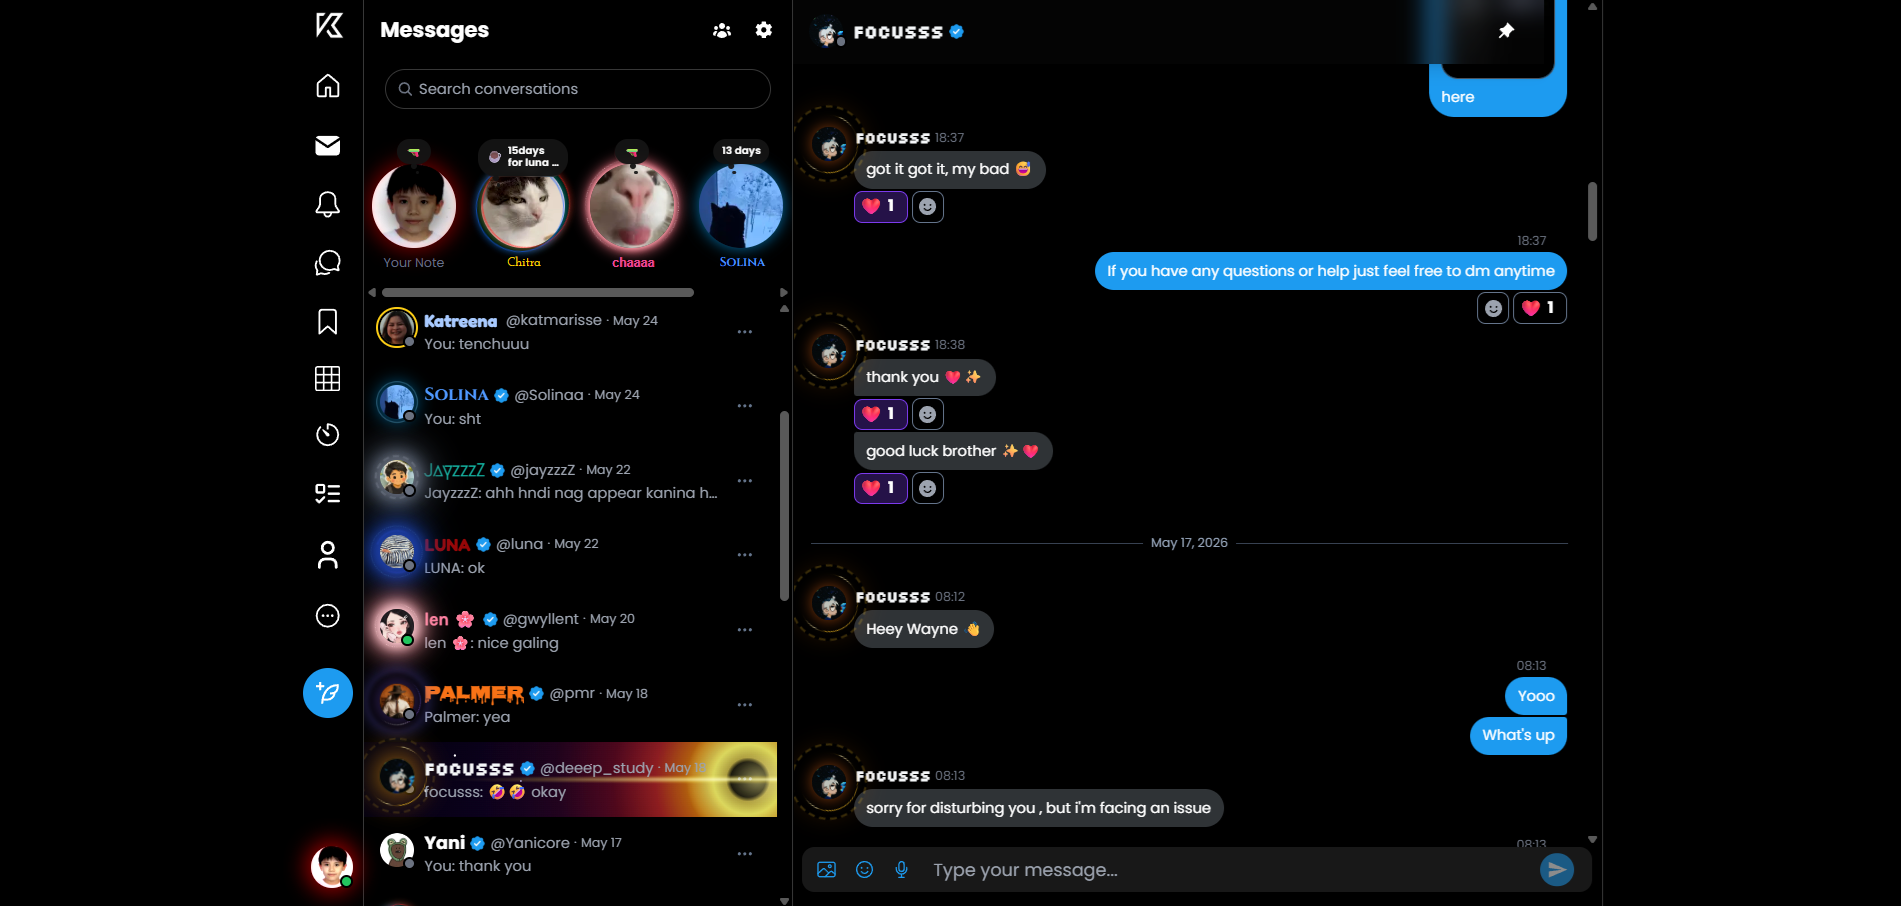
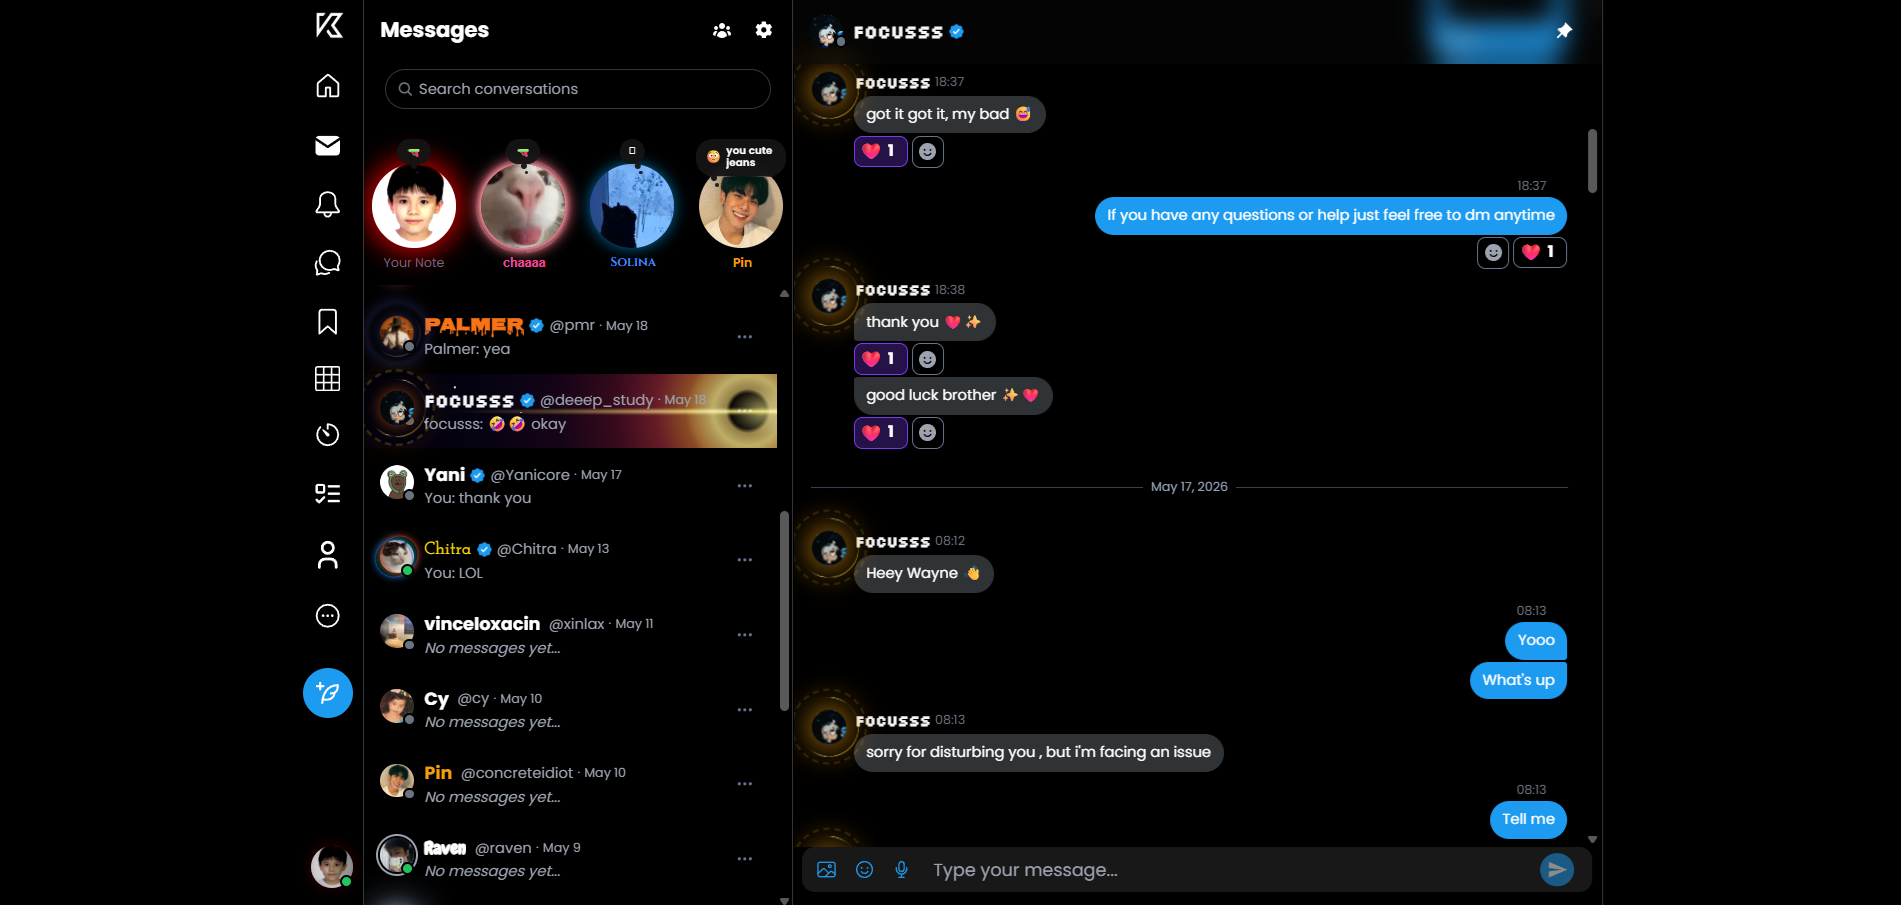
bookmark skeleton

diff --git a/frontend/src/pages/BookmarksPage.jsx b/frontend/src/pages/BookmarksPage.jsx
@@ -36,7 +36,7 @@ const BookmarksPage = () => {
 
   return (
     <>
-      <div className="min-h-screen flex-[4_4_0] border-accent template md:border-x">
+      <div className="template min-h-screen flex-[4_4_0] border-accent md:border-x">
         <div className="sticky top-0 z-10 flex items-center gap-2 border-accent bg-opacity-20 px-3 py-2 backdrop-blur-md md:gap-4 md:px-4 md:py-3.5">
           <button
             onClick={() => navigate(-1)}
@@ -61,7 +61,7 @@ const BookmarksPage = () => {
         </div>
 
         {isLoadingBookmarkedPosts && bookmarkedPosts?.length === 0 && (
-          <div className="flex h-full flex-col items-center justify-center">
+          <div className="flex flex-col justify-center">
             <PostSkeleton />
             <PostSkeleton />
             <PostSkeleton />
